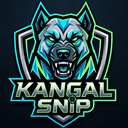
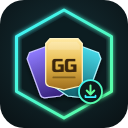
Kendi logosu: Gallery Grab simgeleri ve sosyal önizleme
icons/ Kangal Snip logosunun kopyasıydı; yerine altıgen neon çerçeve,
yelpaze FUT kartları ("GG") ve indirme rozetinden oluşan yeni logo.
branding/ altında 512 px logo, 1280x640 GitHub sosyal önizleme ve
headless Chrome ile render edilen HTML kaynakları.

diff --git a/branding/social.html b/branding/social.html
@@ -1,0 +1,64 @@
+<!doctype html><html><head><meta charset="utf-8">
+<link href="https://fonts.googleapis.com/css2?family=Russo+One&display=block" rel="stylesheet">
+<style>html,body{margin:0;background:transparent}svg{display:block}</style></head><body>
+<svg width="1280" height="640" viewBox="0 0 1280 640" xmlns="http://www.w3.org/2000/svg">
+<defs><radialGradient id="bg2" cx="30%" cy="50%" r="80%"><stop offset="0" stop-color="#16333a"/><stop offset="1" stop-color="#0a1316"/></radialGradient></defs><rect width="1280" height="640" fill="url(#bg2)"/>
+<g transform="translate(90,80) scale(0.94)"><defs>
+  <radialGradient id="bg" cx="50%" cy="42%" r="70%">
+    <stop offset="0" stop-color="#16333a"/><stop offset="1" stop-color="#0a1316"/>
+  </radialGradient>
+  <linearGradient id="rim" x1="0" y1="0" x2="1" y2="1">
+    <stop offset="0" stop-color="#3cf2ff"/><stop offset="1" stop-color="#5dff9a"/>
+  </linearGradient>
+  <linearGradient id="gold" x1="0" y1="0" x2="0" y2="1">
+    <stop offset="0" stop-color="#ffe9a3"/><stop offset=".5" stop-color="#e6b94a"/><stop offset="1" stop-color="#9c6b1c"/>
+  </linearGradient>
+  <linearGradient id="teal" x1="0" y1="0" x2="0" y2="1">
+    <stop offset="0" stop-color="#46d7e6"/><stop offset="1" stop-color="#0f5f6b"/>
+  </linearGradient>
+  <linearGradient id="purp" x1="0" y1="0" x2="0" y2="1">
+    <stop offset="0" stop-color="#8f7bff"/><stop offset="1" stop-color="#35207a"/>
+  </linearGradient>
+  <filter id="glow" x="-30%" y="-30%" width="160%" height="160%">
+    <feGaussianBlur stdDeviation="8" result="b"/><feMerge><feMergeNode in="b"/><feMergeNode in="SourceGraphic"/></feMerge>
+  </filter>
+  <filter id="sh" x="-30%" y="-30%" width="160%" height="160%">
+    <feDropShadow dx="0" dy="8" stdDeviation="8" flood-color="#000" flood-opacity=".55"/>
+  </filter>
+  <path id="card" d="M14,0 H106 L120,16 V142 Q120,152 110,156 L60,168 L10,156 Q0,152 0,142 V16 Z"/>
+</defs>
+
+
+<!-- neon hex frame -->
+<path d="M256,40 L446,146 V366 L256,472 L66,366 V146 Z" fill="none" stroke="url(#rim)" stroke-width="12" stroke-linejoin="round" filter="url(#glow)"/>
+<path d="M256,64 L424,158 V354 L256,448 L88,354 V158 Z" fill="#0c1b1f" opacity=".85"/>
+
+<g transform="translate(256,262) scale(1.22) translate(-256,-262)">
+<g filter="url(#sh)">
+  <g transform="translate(256,268) rotate(-20) translate(-60,-84) translate(-44,0)">
+    <use href="#card" fill="url(#purp)" stroke="#c9bfff" stroke-width="4"/>
+  </g>
+  <g transform="translate(256,268) rotate(20) translate(-60,-84) translate(44,0)">
+    <use href="#card" fill="url(#teal)" stroke="#aef6ff" stroke-width="4"/>
+  </g>
+  <g transform="translate(256,258) translate(-60,-84)">
+    <use href="#card" fill="url(#gold)" stroke="#fff3c4" stroke-width="4"/>
+    <path d="M18,10 H102 L112,22 V36 H8 V22 Z" fill="#fff" opacity=".18"/>
+    <text x="60" y="108" text-anchor="middle" font-family="Russo One" font-size="62" fill="#3a2508" letter-spacing="-2">GG</text>
+    <rect x="22" y="124" width="76" height="6" rx="3" fill="#3a2508" opacity=".45"/>
+  </g>
+</g>
+
+</g>
+<g transform="translate(362,366)" filter="url(#sh)">
+  <circle r="46" fill="#0c1b1f" stroke="url(#rim)" stroke-width="7"/>
+  <path d="M0,-24 V10 M-15,-4 L0,12 L15,-4" fill="none" stroke="#5dff9a" stroke-width="8" stroke-linecap="round" stroke-linejoin="round"/>
+  <path d="M-20,16 V22 H20 V16" fill="none" stroke="#3cf2ff" stroke-width="7" stroke-linecap="round" stroke-linejoin="round"/>
+</g>
+</g>
+<text x="640" y="300" font-family="Russo One" font-size="104" fill="#eafcff">GALLERY</text>
+<text x="640" y="410" font-family="Russo One" font-size="104" fill="url(#rim)">GRAB</text>
+<text x="644" y="480" font-family="Russo One" font-size="30" fill="#8fb3ba">FC 27 Web App · auto gallery collector</text>
+</svg>
+<script>document.fonts.ready.then(()=>document.title='ready')</script>
+</body></html>

diff --git a/branding/logo.html b/branding/logo.html
@@ -1,0 +1,59 @@
+<!doctype html><html><head><meta charset="utf-8">
+<link href="https://fonts.googleapis.com/css2?family=Russo+One&display=block" rel="stylesheet">
+<style>html,body{margin:0;background:transparent}svg{display:block}</style></head><body>
+<svg id="s" width="512" height="512" viewBox="0 0 512 512" xmlns="http://www.w3.org/2000/svg">
+<defs>
+  <radialGradient id="bg" cx="50%" cy="42%" r="70%">
+    <stop offset="0" stop-color="#16333a"/><stop offset="1" stop-color="#0a1316"/>
+  </radialGradient>
+  <linearGradient id="rim" x1="0" y1="0" x2="1" y2="1">
+    <stop offset="0" stop-color="#3cf2ff"/><stop offset="1" stop-color="#5dff9a"/>
+  </linearGradient>
+  <linearGradient id="gold" x1="0" y1="0" x2="0" y2="1">
+    <stop offset="0" stop-color="#ffe9a3"/><stop offset=".5" stop-color="#e6b94a"/><stop offset="1" stop-color="#9c6b1c"/>
+  </linearGradient>
+  <linearGradient id="teal" x1="0" y1="0" x2="0" y2="1">
+    <stop offset="0" stop-color="#46d7e6"/><stop offset="1" stop-color="#0f5f6b"/>
+  </linearGradient>
+  <linearGradient id="purp" x1="0" y1="0" x2="0" y2="1">
+    <stop offset="0" stop-color="#8f7bff"/><stop offset="1" stop-color="#35207a"/>
+  </linearGradient>
+  <filter id="glow" x="-30%" y="-30%" width="160%" height="160%">
+    <feGaussianBlur stdDeviation="8" result="b"/><feMerge><feMergeNode in="b"/><feMergeNode in="SourceGraphic"/></feMerge>
+  </filter>
+  <filter id="sh" x="-30%" y="-30%" width="160%" height="160%">
+    <feDropShadow dx="0" dy="8" stdDeviation="8" flood-color="#000" flood-opacity=".55"/>
+  </filter>
+  <path id="card" d="M14,0 H106 L120,16 V142 Q120,152 110,156 L60,168 L10,156 Q0,152 0,142 V16 Z"/>
+</defs>
+
+<rect width="512" height="512" rx="96" fill="url(#bg)"/>
+<!-- neon hex frame -->
+<path d="M256,40 L446,146 V366 L256,472 L66,366 V146 Z" fill="none" stroke="url(#rim)" stroke-width="12" stroke-linejoin="round" filter="url(#glow)"/>
+<path d="M256,64 L424,158 V354 L256,448 L88,354 V158 Z" fill="#0c1b1f" opacity=".85"/>
+
+<g transform="translate(256,262) scale(1.22) translate(-256,-262)">
+<g filter="url(#sh)">
+  <g transform="translate(256,268) rotate(-20) translate(-60,-84) translate(-44,0)">
+    <use href="#card" fill="url(#purp)" stroke="#c9bfff" stroke-width="4"/>
+  </g>
+  <g transform="translate(256,268) rotate(20) translate(-60,-84) translate(44,0)">
+    <use href="#card" fill="url(#teal)" stroke="#aef6ff" stroke-width="4"/>
+  </g>
+  <g transform="translate(256,258) translate(-60,-84)">
+    <use href="#card" fill="url(#gold)" stroke="#fff3c4" stroke-width="4"/>
+    <path d="M18,10 H102 L112,22 V36 H8 V22 Z" fill="#fff" opacity=".18"/>
+    <text x="60" y="108" text-anchor="middle" font-family="Russo One" font-size="62" fill="#3a2508" letter-spacing="-2">GG</text>
+    <rect x="22" y="124" width="76" height="6" rx="3" fill="#3a2508" opacity=".45"/>
+  </g>
+</g>
+
+</g>
+<g transform="translate(362,366)" filter="url(#sh)">
+  <circle r="46" fill="#0c1b1f" stroke="url(#rim)" stroke-width="7"/>
+  <path d="M0,-24 V10 M-15,-4 L0,12 L15,-4" fill="none" stroke="#5dff9a" stroke-width="8" stroke-linecap="round" stroke-linejoin="round"/>
+  <path d="M-20,16 V22 H20 V16" fill="none" stroke="#3cf2ff" stroke-width="7" stroke-linecap="round" stroke-linejoin="round"/>
+</g>
+</svg>
+<script>document.fonts.ready.then(()=>document.title='ready')</script>
+</body></html>
